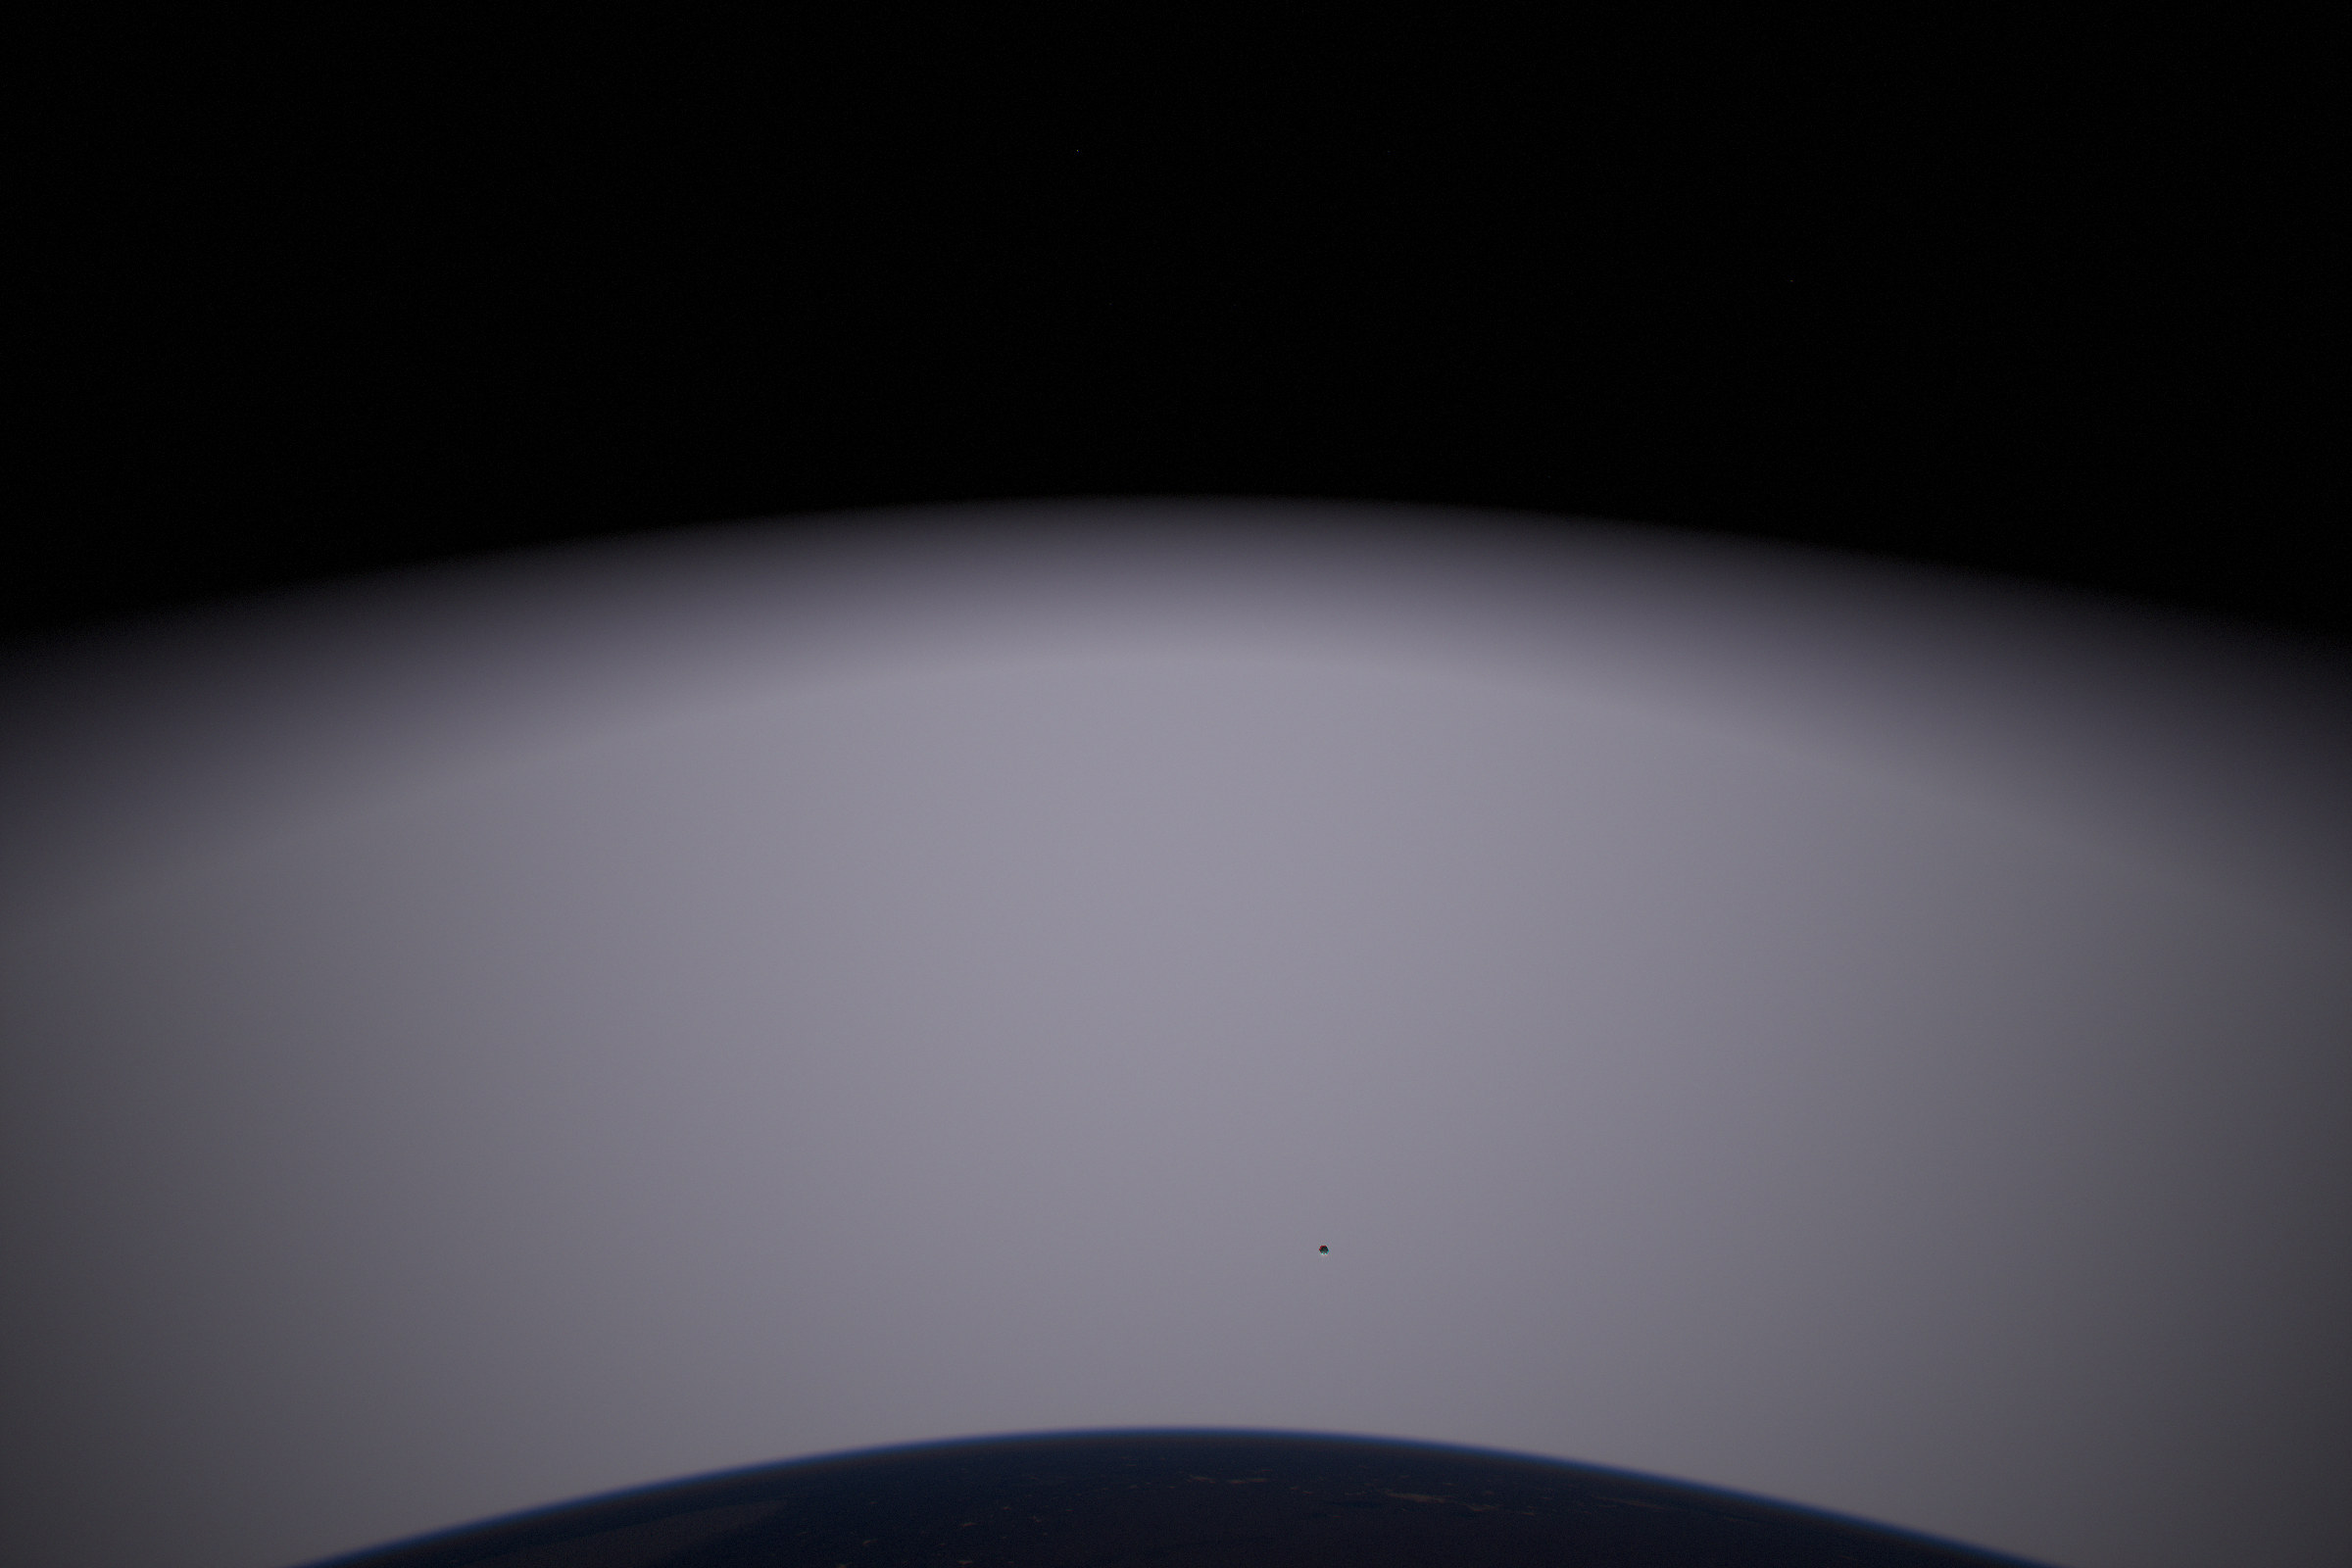
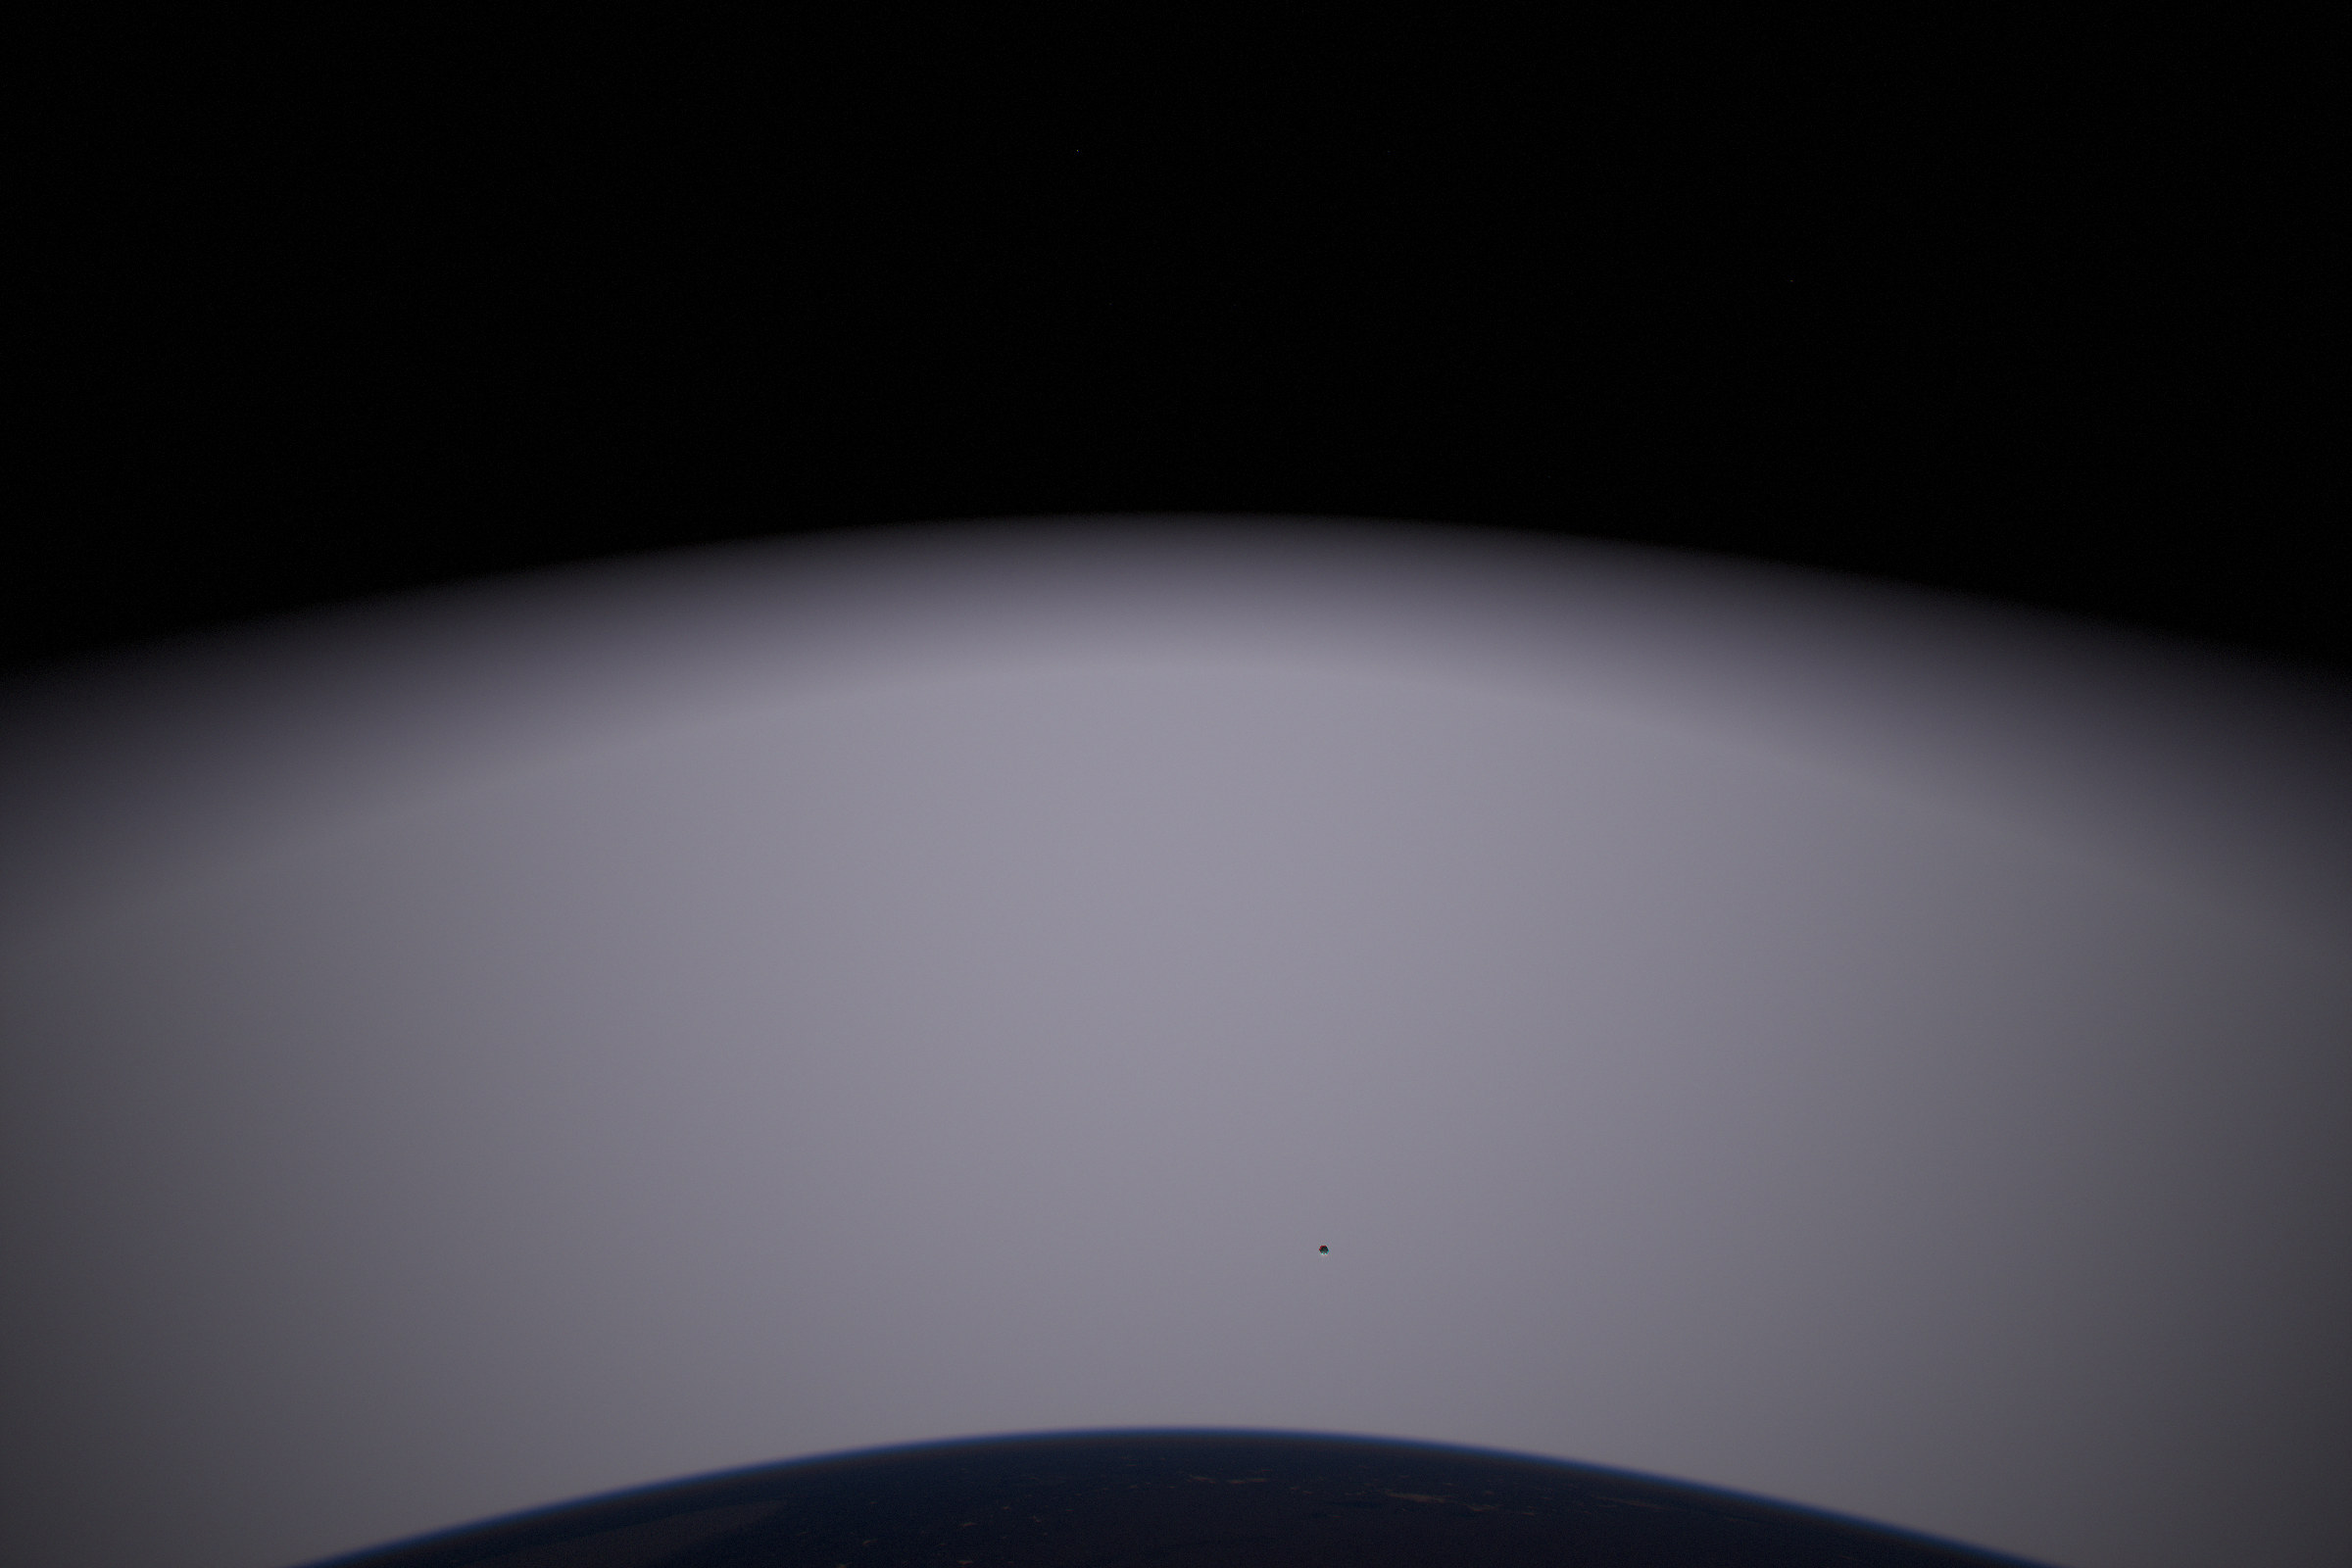
Low-orbit renderer: supersample the Moon's pixels so a crescent thinner than a pixel is not lost
Claude-Session: https://claude.ai/code/session_01SbDrhYF14UDXonL1ALY6on

Changed region(s): [[0.1875, 0.3125, 0.8125, 0.375]]

diff --git a/render/leo_view.py b/render/leo_view.py
@@ -351,6 +351,7 @@ def render(sc, w, h, steps, chunk=60000):
             'lights_patches': [(load_lin('earth_night_lights_mideast_1km.jpg', 'L'), 20.0, 65.0, 5.0, 50.0, 0.855),
                                (load_lin('earth_night_lights_gulf_500m.jpg', 'L'), 44.0, 58.0, 22.0, 38.0, 0.855)]}
     moon_mask = np.zeros(N, bool)
+    T_all, L_all = np.ones((N, 3)), np.zeros((N, 3))
     for a in range(0, N, chunk):
         d = D[a:a + chunk]
         tg0, tg1, hitg = Scene.sphere(sc.P, d, RG)
@@ -382,9 +383,44 @@ def render(sc, w, h, steps, chunk=60000):
             bg[hitm] = moon_radiance(sc, Xm, d[hitm], maps['moon'])
         moon_mask[a:a + chunk] = hitm
         out[a:a + chunk] = bg * T + L
+        T_all[a:a + chunk], L_all[a:a + chunk] = T, L
         print('chunk', a // chunk + 1, '/', (N + chunk - 1) // chunk, flush=True)
+    cover = moon_mask.astype(float)
+    # The Moon is a few pixels across and a crescent can be thinner than one, so one ray per pixel
+    # can miss its lit edge: its pixels are redone with 8 x 8 rays each.
+    to_m = sc.moon_c - sc.P
+    dm = np.linalg.norm(to_m)
+    near = np.nonzero(D @ (to_m / dm) > math.cos(math.asin(R_MOON / dm) + 3.0 / sc.fpx))[0]
+    if len(near):
+        ss = 8
+        off = (np.arange(ss) + 0.5) / ss - 0.5
+        ox, oy = (v.ravel() for v in np.meshgrid(off, off))
+        row, col = near // w, near % w
+        X = (col + 0.5 - w / 2)[:, None] + ox[None]
+        Y = (h / 2 - row - 0.5)[:, None] - oy[None]
+        Ds = sc.fwd[None, None] * sc.fpx + sc.right[None, None] * X[..., None] + sc.upv[None, None] * Y[..., None]
+        Ds /= np.linalg.norm(Ds, axis=-1, keepdims=True)
+        dc = D[near]
+        sky_bg = SM.glow_radiance(dc, sc.sun, sc.glow)[:, None] * sc.glow_rgb[None]
+        if not sc.closed:
+            zod = SM.zodiacal(dc, sc.sun, sc.pole)[:, None] * A.SUN_RGB[None] / (A.SUN_RGB @ A.LUMA)
+            if sc.glow['kind'] == 'sphere':
+                zod = zod * ((1 - sc.glow['f']) * SM.sphere_transmission(dc, sc.sun, sc.glow))[:, None]
+            sky_bg = sky_bg + zod
+        flat = Ds.reshape(-1, 3)
+        tm0, _, hm = Scene.sphere(sc.P - sc.moon_c, flat, R_MOON)
+        hm &= tm0 > 0
+        Lm = np.zeros((len(flat), 3))
+        if hm.any():
+            Lm[hm] = moon_radiance(sc, sc.P + flat[hm] * tm0[hm][:, None], flat[hm], maps['moon'])
+        hm, Lm = hm.reshape(len(near), ss * ss), Lm.reshape(len(near), ss * ss, 3)
+        c = hm.mean(1)
+        bgm = Lm.sum(1) / ss ** 2 + (1 - c)[:, None] * sky_bg
+        sky_px = ~Scene.sphere(sc.P, dc, RG)[2]
+        out[near[sky_px]] = (bgm * T_all[near] + L_all[near])[sky_px]
+        cover[near[sky_px]] = c[sky_px]
     img = out.reshape(h, w, 3)
-    keep = ~moon_mask.reshape(h, w, 1)                        # the Moon hides what lies behind it
+    keep = 1 - cover.reshape(h, w, 1)                         # the Moon hides what lies behind it
     img += milky(sc, D, h, w) * keep
     img += star_layer(sc, w, h, steps) * keep
     return img
